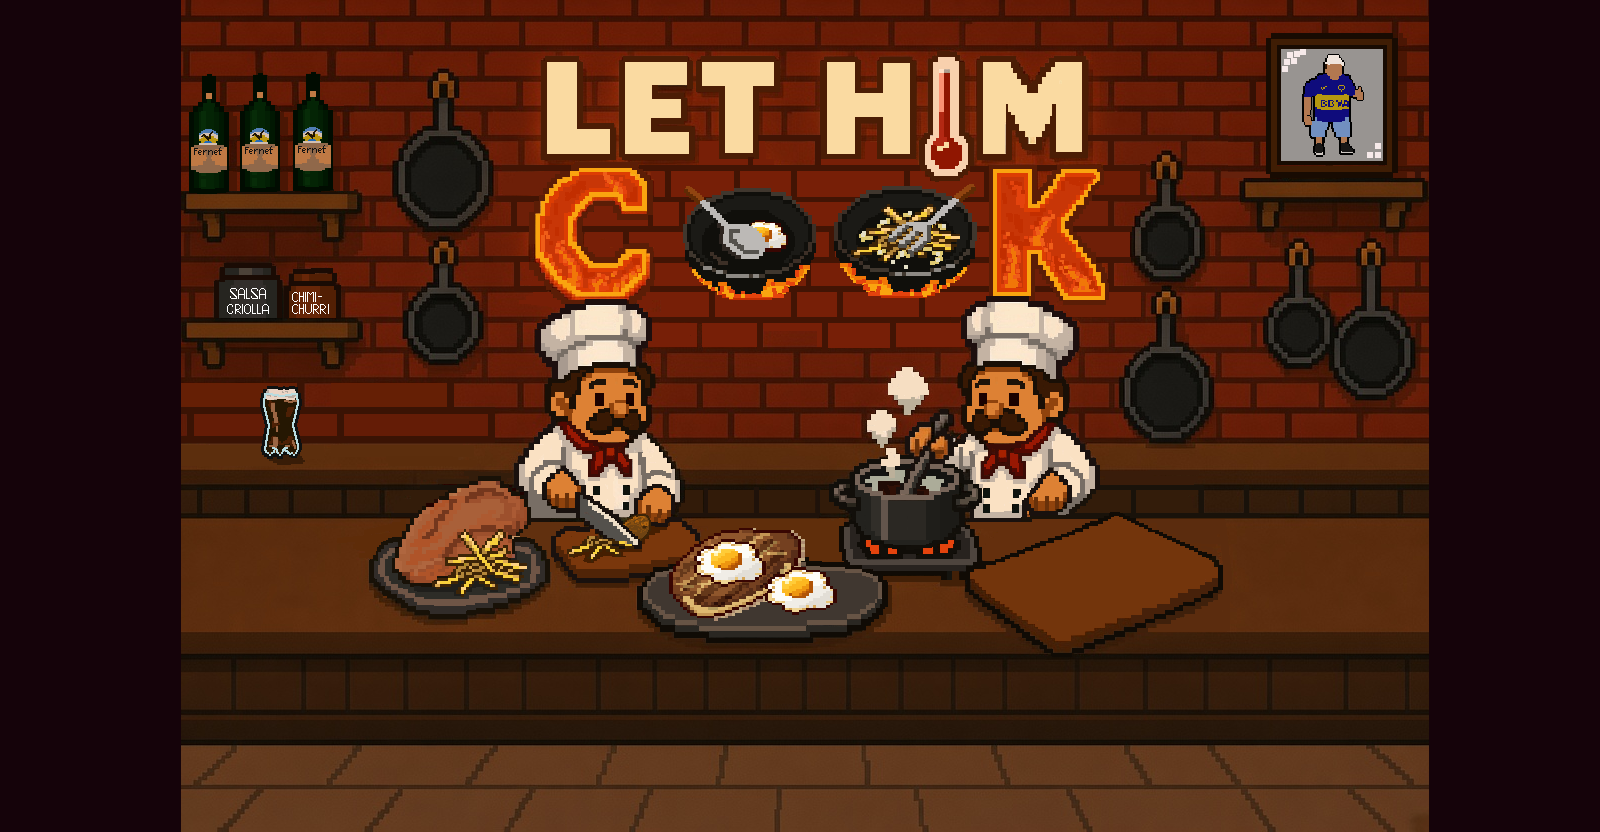
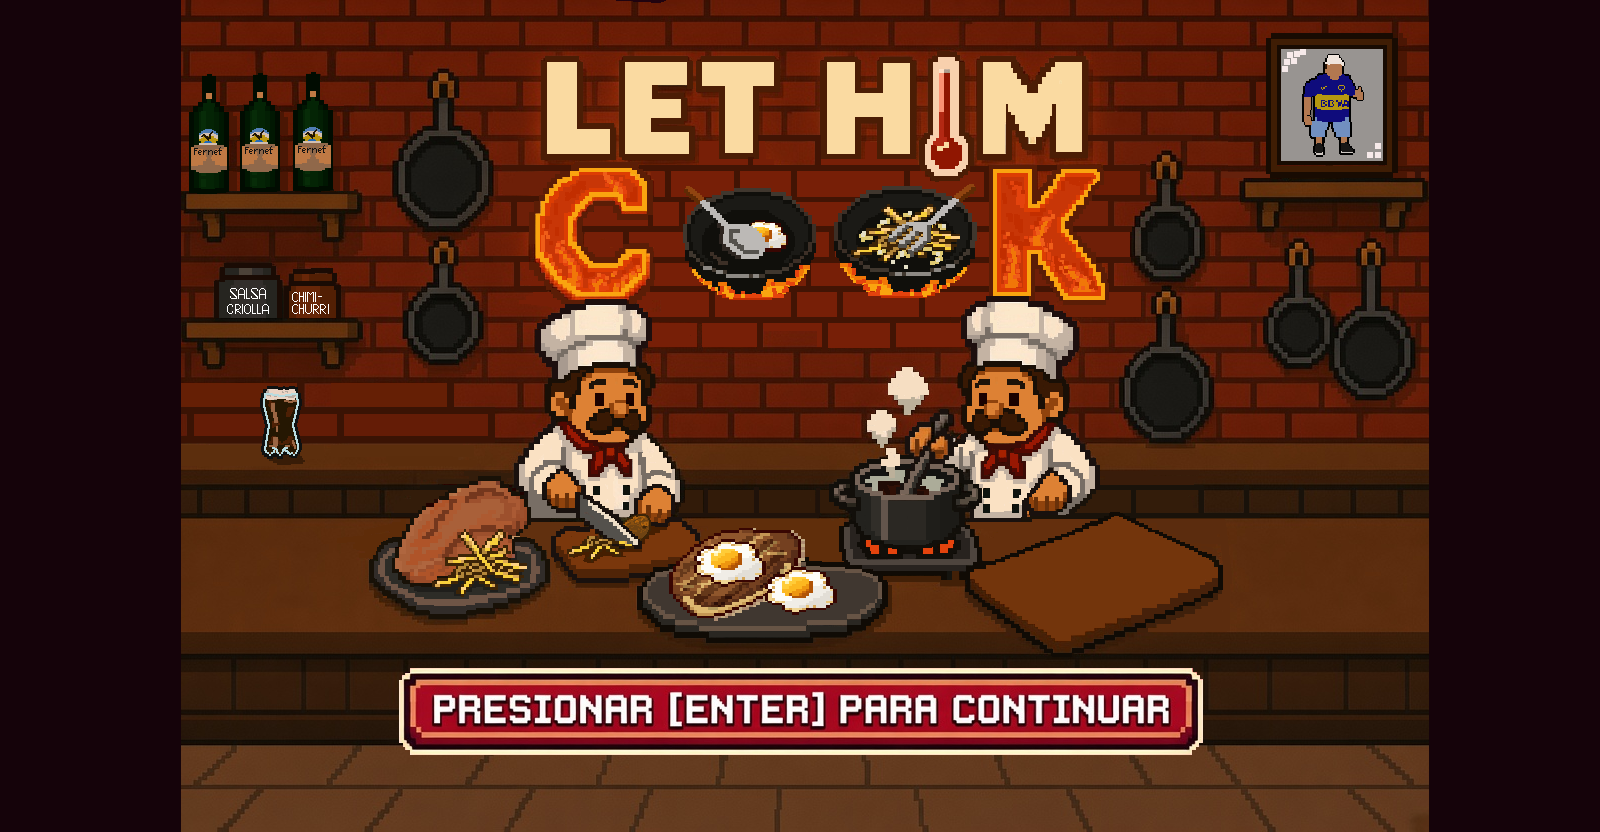
cambio pantalla de inicio y readme

Changed region(s): [[0.25, 0.7812, 0.75, 0.9062]]

diff --git a/README.MD b/README.MD
@@ -18,7 +18,7 @@ Si dejás que se quemen los platos o se vencen 5 pedidos, ¡Estás fuera de la c
 
 ## Portada del juego
 
-![Portada](assets/imagenesFondos/menuInicio.png)
+![Portada](assets/imagenesFondos/portada2ReadMe.png)
 
 ## 📜 Instrucciones
 
